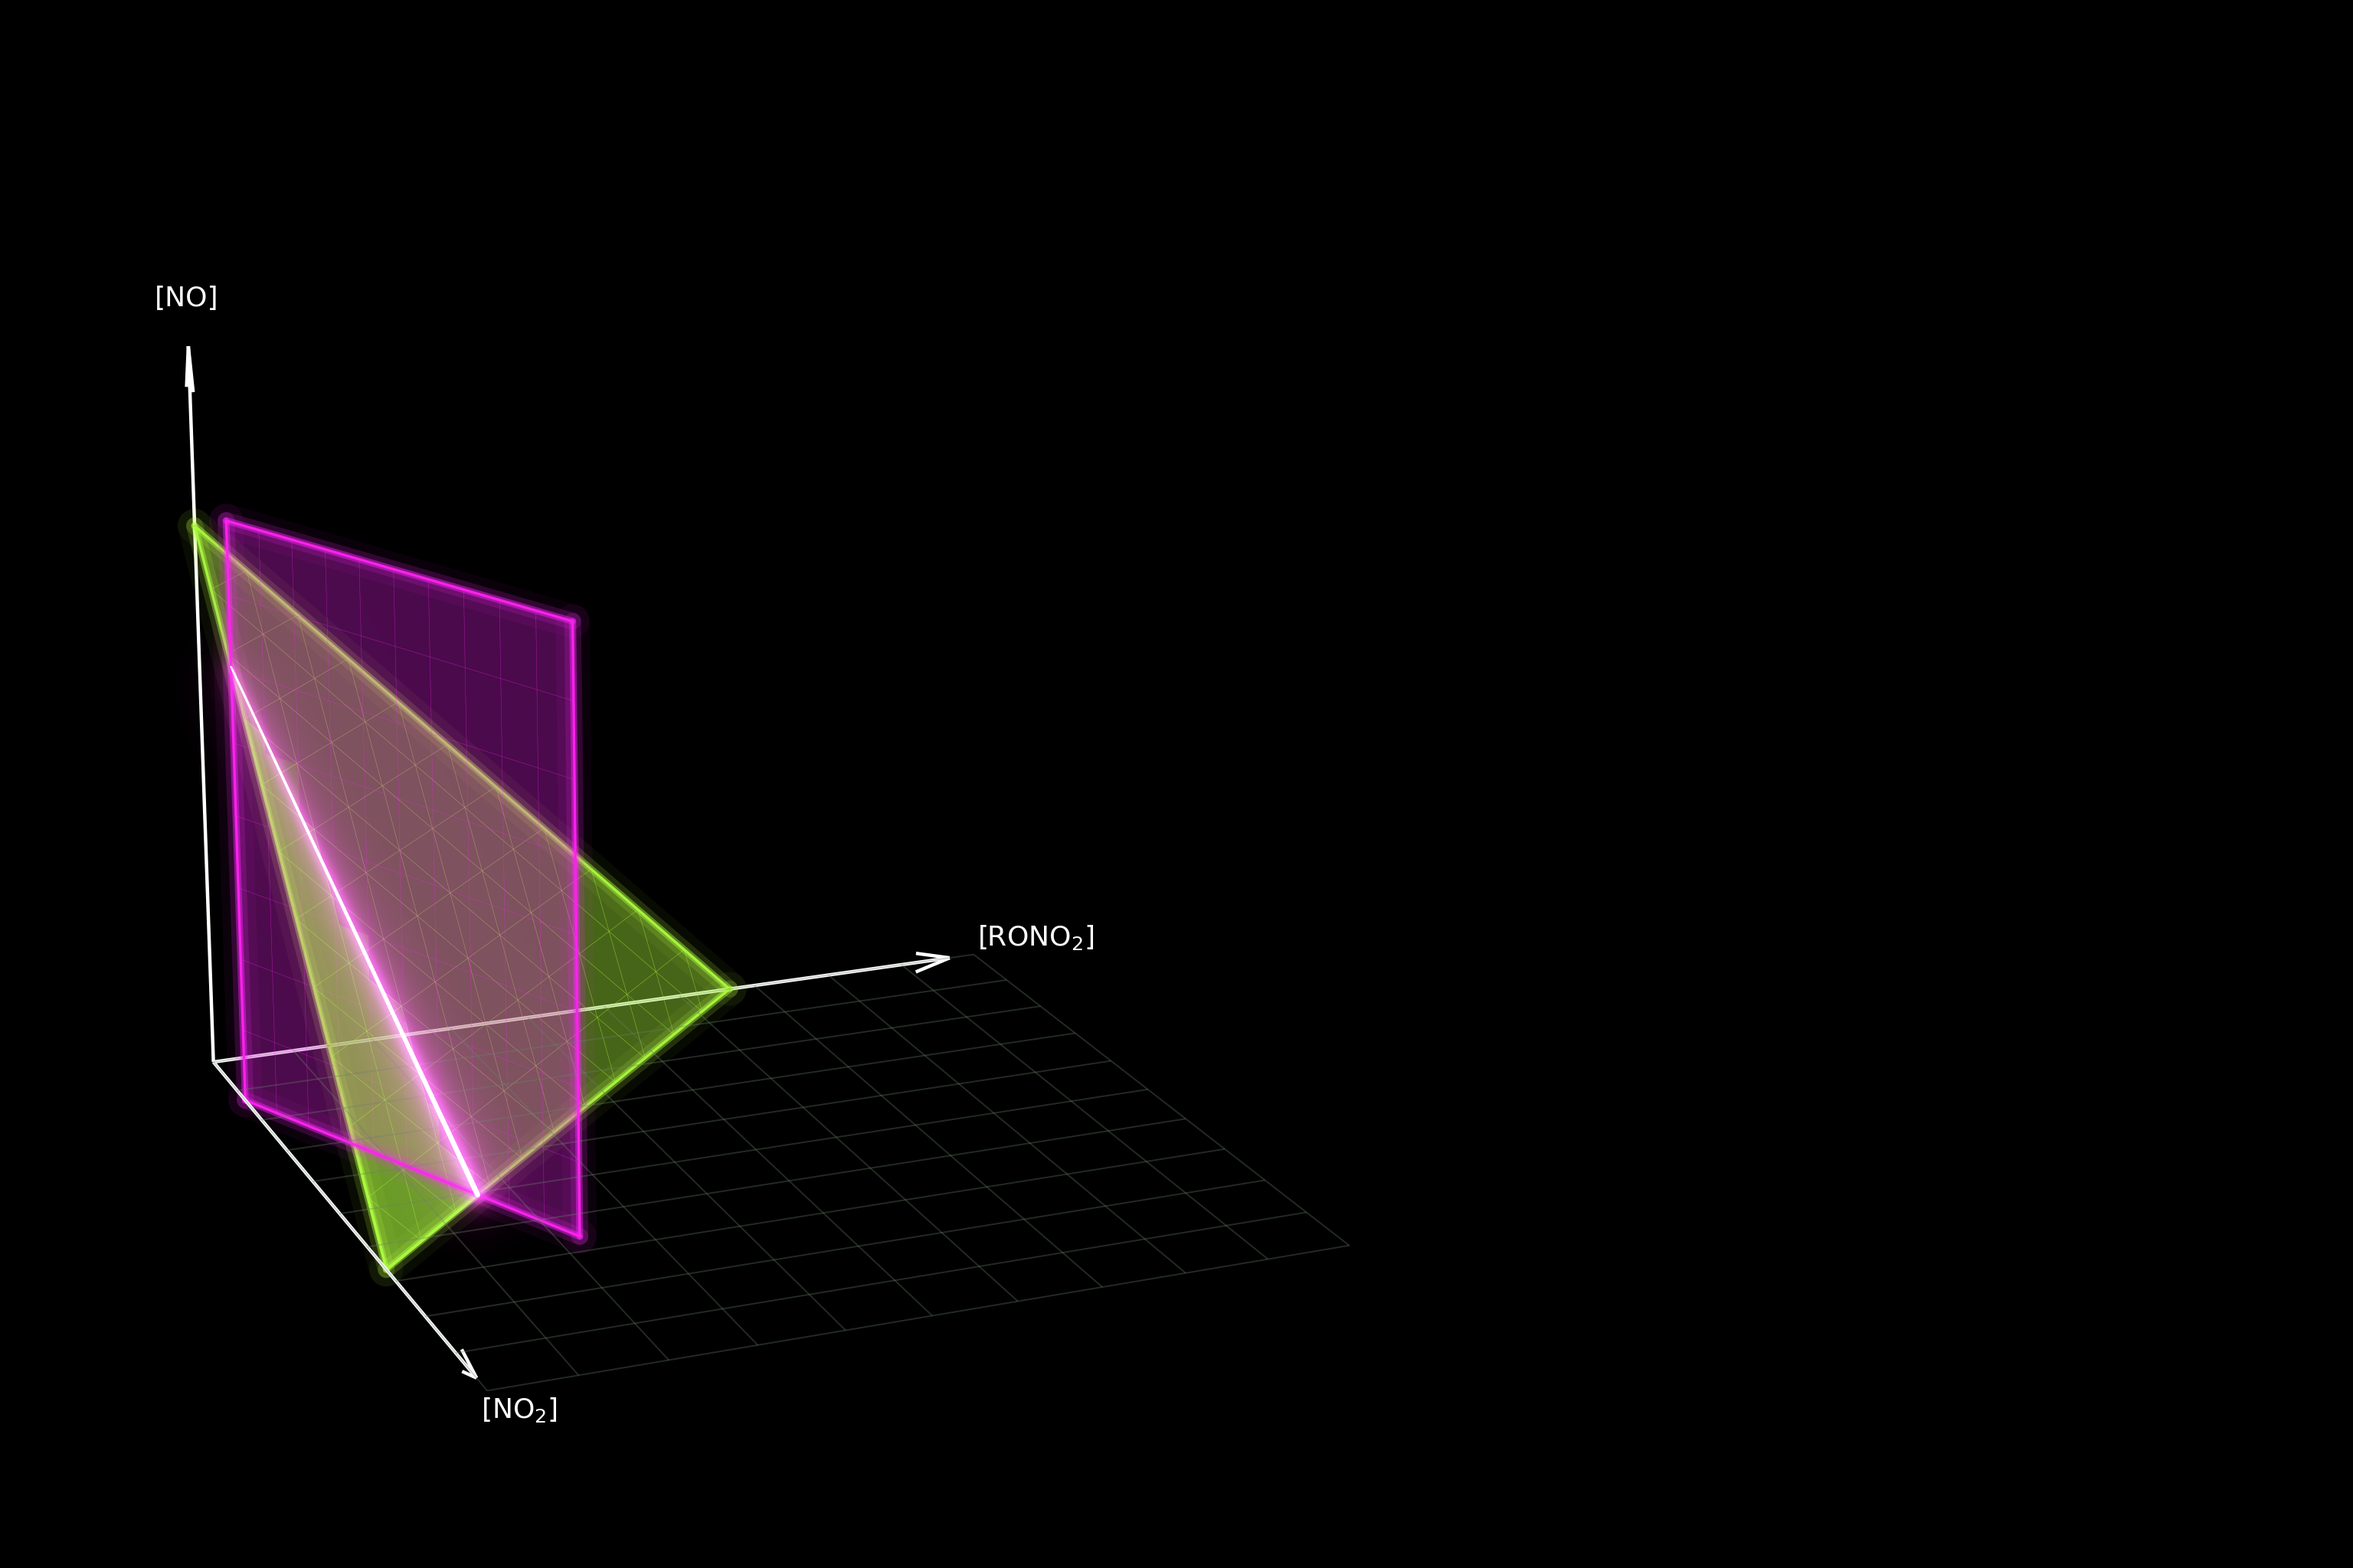
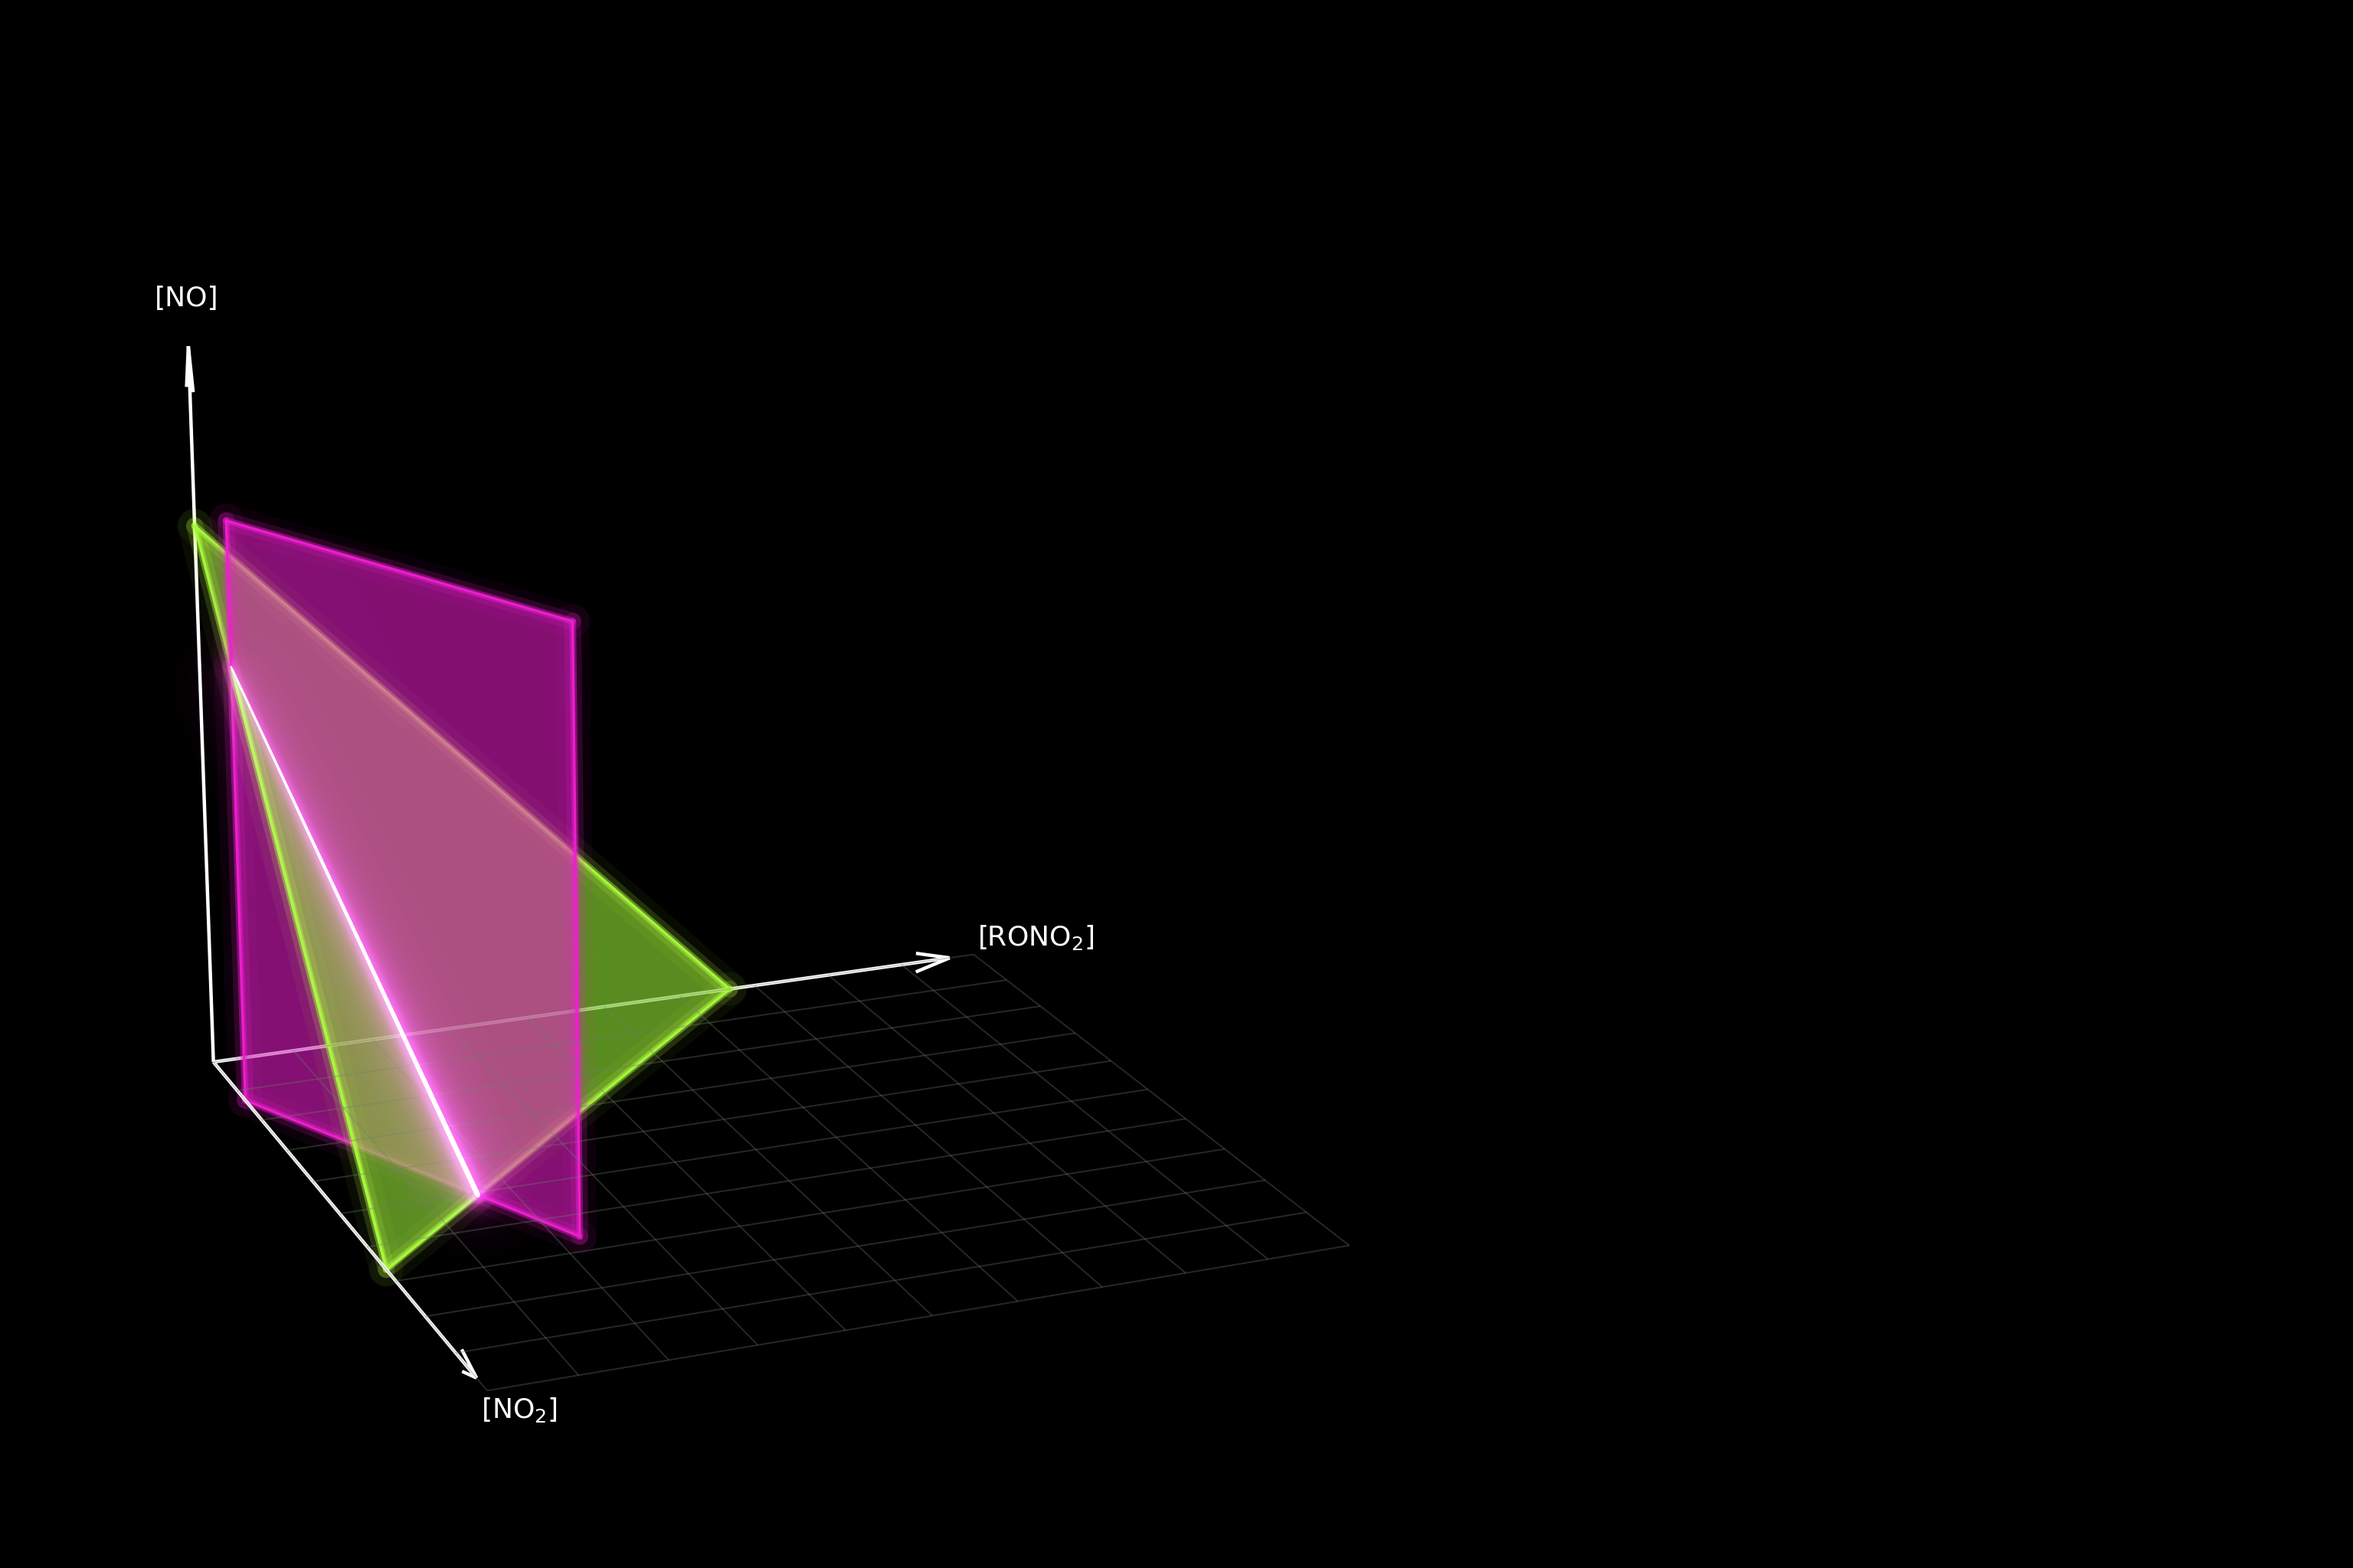
update aesthetics

Changed region(s): [[0.0625, 0.3125, 0.3125, 0.7812]]

diff --git a/matplotlib_version.py b/matplotlib_version.py
@@ -40,12 +40,6 @@ def frosted_field(seed, sigma=13.0, res=128):     # sigma up -> translucent acry
 GFIELD = frosted_field(11)
 MFIELD = frosted_field(23)
 
-# def sample(field, u, v):
-#     res = field.shape[0]
-#     iu = np.clip((u * (res-1)).astype(int) if hasattr(u, "astype") else int(u*(res-1)), 0, res-1)
-#     iv = np.clip((v * (res-1)).astype(int) if hasattr(v, "astype") else int(v*(res-1)), 0, res-1)
-#     return field[iu, iv]
-
 def frost_color(base, t, lo=0.55, hi=1.28, alpha=0.50):
     b = lo + (hi - lo) * t
     rgb = np.clip(base * b, 0, 1)
@@ -89,9 +83,6 @@ def mag_faces(na=10, nh=8):
 gfaces, guv = tri_faces()
 mfaces, muv = mag_faces()
 
-# gcolors = [frost_color(GREEN,   sample(GFIELD, u, v), alpha=0.52) for (u, v) in guv]  # green denser
-# mcolors = [frost_color(MAGENTA, sample(MFIELD, u, v), alpha=0.38) for (u, v) in muv]
-
 gcolors = [frost_color(GREEN,   1, alpha=0.40) for (u, v) in guv]  # green denser
 mcolors = [frost_color(MAGENTA, 1, alpha=0.30) for (u, v) in muv]
 
@@ -102,14 +93,10 @@ def edge_rgba(c, alpha, boost=1.0):
 gedge = [edge_rgba(c, alpha=0.005,  boost=1.18) for c in gcolors]
 medge = [edge_rgba(c, alpha=0.005, boost=1.22) for c in mcolors]
 
-
-
-all_faces  = gfaces + mfaces
-all_colors = gcolors + mcolors
-all_edges  = gedge + medge
-
 # all_faces  = gfaces + mfaces
 # all_colors = gcolors + mcolors
+# all_edges  = gedge + medge
+
 
 # ------------------------------------------------------------------- figure
 fig = plt.figure(figsize=(9.6, 10.24), dpi=100*SCALE)
@@ -118,28 +105,109 @@ ax = fig.add_subplot(111, projection="3d")
 ax.set_facecolor("black")
 ax.set_proj_type("persp", focal_length=0.62)
 
-poly = Poly3DCollection(all_faces, facecolors=all_colors, edgecolors=all_colors,
-                        linewidths=0.18, antialiaseds=True)
+# poly = Poly3DCollection(all_faces, facecolors=all_colors, edgecolors=all_colors,
+#                         linewidths=0.18, antialiaseds=True)
 
-# Foreground copy of the simplex portion "left" of the kinetic line
-# This is the side satisfying k2*x - k1*y >= L, i.e. the NO2-rich side.
+# Split green simplex by the kinetic line
+right_piece = [A, P_bot, P_top]              # k2*x - k1*y >= L
+left_piece  = [B, C, P_top, P_bot]           # k2*x - k1*y <= L
 
-front_simplex = [A, P_bot, P_top]
+# Split magenta plane by the same intersection line
+mBL = anchor
+mBR = anchor + A_MAX * dfloor
+mTR = anchor + A_MAX * dfloor + H_MAX * zhat
+mTL = anchor + H_MAX * zhat
 
-front_poly = Poly3DCollection(
-    [front_simplex],
-    facecolors=[(*GREEN, 0.42)],  # more translucent fill
+mag_left_piece  = [mBL, P_bot, P_top]
+mag_right_piece = [P_top, mTL, mTR, mBR, P_bot]
+
+right_poly = Poly3DCollection(
+    [right_piece],
+    facecolors=[(*GREEN, 0.65)],
     edgecolors=[(*np.clip(GREEN * 1.35, 0, 1), 0.95)],
     linewidths=1.2,
     antialiaseds=True
 )
-front_poly.set_zsort("max")
-front_poly.set_zorder(100)
-ax.add_collection3d(front_poly)
 
+left_poly = Poly3DCollection(
+    [left_piece],
+    facecolors=[(*GREEN, 0.65)],
+    edgecolors=[(*np.clip(GREEN * 1.15, 0, 1), 0.65)],
+    linewidths=1.0,
+    antialiaseds=True
+)
 
-poly.set_zsort("average")
-ax.add_collection3d(poly)
+mag_left_poly = Poly3DCollection(
+    [mag_left_piece],
+    facecolors=[(*MAGENTA, 0.55)],
+    edgecolors='none',
+    linewidths=0,
+    antialiaseds=True
+)
+
+mag_right_poly = Poly3DCollection(
+    [mag_right_piece],
+    facecolors=[(*MAGENTA, 0.55)],
+    edgecolors='none',
+    linewidths=0,
+    antialiaseds=True
+)
+
+# Add fills
+ax.add_collection3d(mag_left_poly)
+ax.add_collection3d(right_poly)
+ax.add_collection3d(mag_right_poly)
+ax.add_collection3d(left_poly)
+
+# zsort / zorder
+mag_left_poly.set_zsort("min")
+right_poly.set_zsort("min")
+mag_right_poly.set_zsort("min")
+left_poly.set_zsort("max")
+
+mag_left_poly.set_zorder(80)
+right_poly.set_zorder(90)
+mag_right_poly.set_zorder(100)
+left_poly.set_zorder(110)
+
+# -------------------------------------------------------------
+# Manual magenta outline: draw only visible edges
+# Omit the edge you do NOT want inside the green overlap.
+# -------------------------------------------------------------
+def add_line_segments(points, color, lw, alpha, zorder):
+    pts = np.array(points)
+    segs = np.stack([pts[:-1], pts[1:]], axis=1)
+    lc = Line3DCollection(
+        segs,
+        colors=[(*color, alpha)] * len(segs),
+        linewidths=lw,
+        capstyle="round"
+    )
+    lc.set_zorder(zorder)
+    ax.add_collection3d(lc)
+
+# Left magenta piece outline:
+# draw the outer edges, but NOT the interior/shared edge P_bot -> P_top
+add_line_segments([mBL, P_bot], MAGENTA, 16, 0.05, 81)
+add_line_segments([mBL, P_top], MAGENTA, 16, 0.05, 81)
+
+add_line_segments([mBL, P_bot], MAGENTA, 8, 0.16, 82)
+add_line_segments([mBL, P_top], MAGENTA, 8, 0.16, 82)
+
+add_line_segments([mBL, P_bot], MAGENTA, 3.2, 0.42, 83)
+add_line_segments([mBL, P_top], MAGENTA, 3.2, 0.42, 83)
+
+add_line_segments([mBL, P_bot], MAGENTA, 1.2, 0.95, 84)
+add_line_segments([mBL, P_top], MAGENTA, 1.2, 0.95, 84)
+
+# Right magenta piece outline
+add_line_segments([P_top, mTL, mTR, mBR, P_bot], MAGENTA, 16, 0.05, 99)
+add_line_segments([P_top, mTL, mTR, mBR, P_bot], MAGENTA, 8, 0.16, 100)
+add_line_segments([P_top, mTL, mTR, mBR, P_bot], MAGENTA, 3.2, 0.42, 101)
+add_line_segments([P_top, mTL, mTR, mBR, P_bot], MAGENTA, 1.2, 0.95, 102)
+
+# poly.set_zsort("average")
+# ax.add_collection3d(poly)
 
 # --------------------------------------------------------- line geometry
 elev, azim = 18, -22
@@ -232,14 +300,14 @@ def soft_edge(loop, color):
 
 soft_edge([A, B, C, A], GREEN)
 
-soft_edge(
-    [anchor,
-     anchor+A_MAX*dfloor,
-     anchor+A_MAX*dfloor+H_MAX*zhat,
-     anchor+H_MAX*zhat,
-     anchor],
-    MAGENTA
-)
+# soft_edge(
+#     [anchor,
+#      anchor+A_MAX*dfloor,
+#      anchor+A_MAX*dfloor+H_MAX*zhat,
+#      anchor+H_MAX*zhat,
+#      anchor],
+#     MAGENTA
+# )
 
 # ------------------------------------------------------------- floor grid
 gl = []
